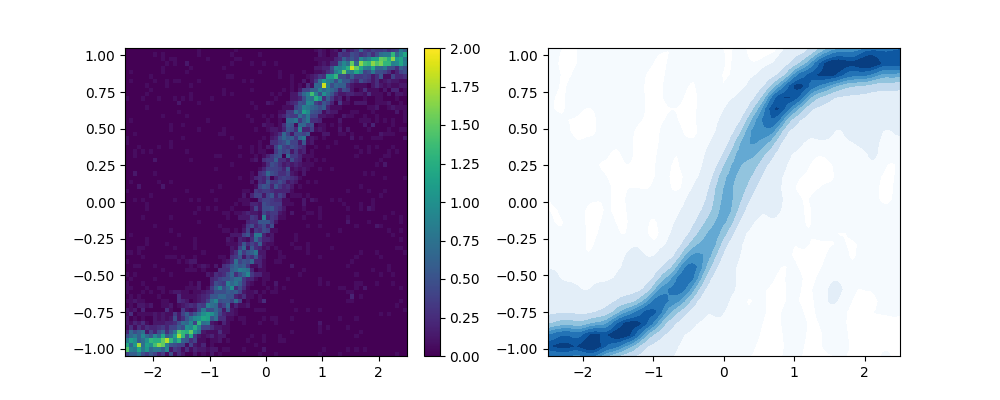
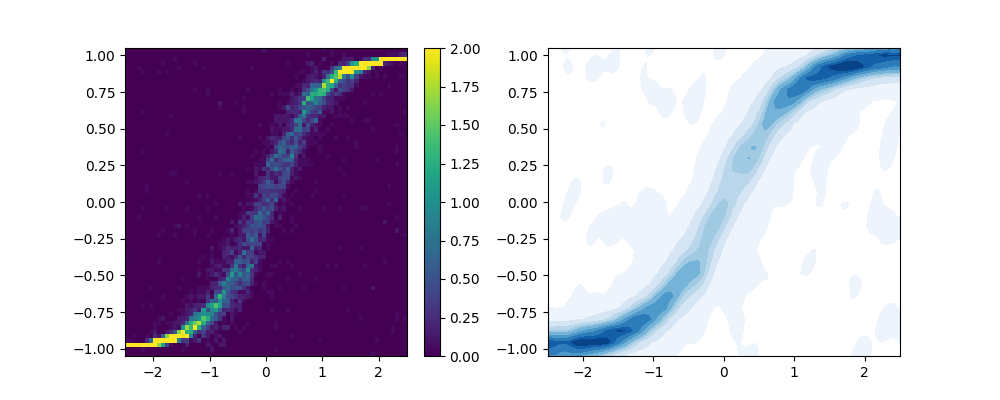
generic commit

Changed region(s): [[0.527, 0.12, 0.899, 0.9], [0.124, 0.12, 0.434, 0.9], [0.806, 0.69, 0.868, 0.75]]

diff --git a/scripts/transport/kvae_flow3.py b/scripts/transport/kvae_flow3.py
@@ -92,6 +92,12 @@ class Comp_transport_model:
         return z_mean
 
 
+    def map_denoise(self, x_mu, y_mean, y_var, y_denoise, Lambda_denoise, X_denoise, fit_kernel):
+        x_denoise = torch.concat([x_mu, y_mean, y_var + y_denoise], dim=1)
+        z_denoise = fit_kernel(X_denoise, x_denoise).T @ Lambda_denoise
+        return z_denoise
+
+
     def map_var(self, x_mu, y_eta, y_mean, Lambda_var, X_var, y_var, fit_kernel):
         if not self.approx:
             y_eta = shuffle(y_eta)
@@ -107,28 +113,34 @@ class Comp_transport_model:
                                    device=self.device, dtype=self.dtype)
         Lambda_var = torch.tensor(self.submodel_params['Lambda_var'][step_idx],
                                   device=self.device, dtype=self.dtype)
+        Lambda_denoise = torch.tensor(self.submodel_params['Lambda_denoise'][step_idx],
+                                  device=self.device, dtype=self.dtype)
         fit_kernel = self.submodel_params['fit_kernel'][step_idx]
         X_mean = torch.tensor(self.submodel_params['X_mean'][step_idx],device=self.device, dtype=self.dtype)
         X_var = torch.tensor(self.submodel_params['X_var'][step_idx], device=self.device, dtype=self.dtype)
+        X_denoise = torch.tensor(self.submodel_params['X_denoise'][step_idx], device=self.device, dtype=self.dtype)
 
         y_eta = geq_1d(torch.tensor(param_dict['y_eta'], device=self.device, dtype=self.dtype))
         x_mu = geq_1d(torch.tensor(param_dict['x_mu'], device=self.device, dtype=self.dtype))
         y_mean = geq_1d(torch.tensor(param_dict['y_mean'], device=self.device, dtype=self.dtype))
         y_var = geq_1d(torch.tensor(param_dict['y_var'], device=self.device, dtype=self.dtype))
+        y_denoise = geq_1d(torch.tensor(param_dict['y_denoise'], device=self.device, dtype=self.dtype))
 
         if not self.approx:
             y_mean = deepcopy(y_eta)
             y_var = 0 * y_mean
+            y_denoise = 0 * y_mean
 
         z_mean = self.map_mean(x_mu, y_mean, Lambda_mean, X_mean, fit_kernel)
         z_var = self.map_var(x_mu, y_eta, y_mean, Lambda_var, X_var,  y_var, fit_kernel)
-        z = z_mean + z_var
+        z_denoise = self.map_denoise(x_mu, y_mean, y_var, y_denoise, Lambda_denoise, X_denoise, fit_kernel)
+        z = z_mean + z_var + z_denoise
 
-        y_approx = y_mean + y_var
+        y_approx = y_mean + y_var + y_denoise
         y_eta = self.noise_shrink_c * shuffle(y_eta)
 
-        param_dict = {'y_eta': y_eta, 'y_mean': y_mean + z_mean, 'y_var': y_var + z_var, 'x_mu': x_mu,
-                       'y_approx': y_approx + z, 'y': torch.concat([x_mu, y_approx + z], dim=1)}
+        param_dict = {'y_eta': y_eta, 'y_mean': y_mean + z_mean, 'y_var': y_var + z_var, 'y_approx': y_approx + z,
+                      'y_denoise': y_denoise + z_denoise, 'x_mu': x_mu, 'y': torch.concat([x_mu, y_approx + z], dim=1)}
 
 
         if self.plot_steps:
@@ -141,7 +153,7 @@ class Comp_transport_model:
 
     def c_map(self, x, y, no_x = False):
         param_dict = {'y_eta': y, 'y_mean': 0 , 'y_var': 0,
-                       'x_mu': x, 'y_approx': 0, 'y': 0}
+                       'y_denoise': 0, 'x_mu': x, 'y_approx': 0, 'y': 0}
         self.approx = False
         for step_idx in range(len(self.submodel_params['Lambda_mean'])):
             param_dict = self.param_map(step_idx, param_dict)
@@ -176,15 +188,19 @@ class CondTransportKernel(nn.Module):
 
         self.Y_mean = deepcopy(self.Y_eta)
         self.Y_var =  0 * self.Y_mean
+        self.Y_denoise = 0 * self.Y_mean
         self.X_var = torch.concat([self.X_mu, shuffle(self.Y_eta), self.Y_mean], dim=1)
         self.approx = self.params['approx']
         if self.approx:
             self.Y_mean = geq_1d(torch.tensor(base_params['Y_mean'], device=self.device, dtype=self.dtype))
             self.Y_var = geq_1d(torch.tensor(base_params['Y_var'], device=self.device, dtype=self.dtype))
-            self.X_var = torch.concat([self.X_mu, self.Y_eta, self.Y_mean + self.Y_var], dim=1)
+            self.Y_denoise = geq_1d(torch.tensor(base_params['Y_denoise'], device=self.device, dtype=self.dtype))
+            self.X_var = torch.concat([self.X_mu, self.Y_eta, self.Y_mean], dim=1)
 
         self.X_mean = torch.concat([self.X_mu, self.Y_mean], dim=1)
-        self.Y_approx = self.Y_mean + self.Y_var
+        self.X_denoise = torch.concat([self.X_mu, self.Y_mean, self.Y_var + self.Y_denoise], dim=1)
+
+        self.Y_approx = self.Y_mean + self.Y_var + self.Y_denoise
 
         self.Y_mu = geq_1d(torch.tensor(base_params['Y_mu'], device=self.device, dtype=self.dtype))
         self.Y = torch.concat([self.X_mu, self.Y_mu], dim=1)
@@ -198,21 +214,25 @@ class CondTransportKernel(nn.Module):
         self.nugget_matrix = self.params['nugget'] * torch.eye(self.Nx, device=self.device, dtype=self.dtype)
         self.fit_kXXmean_inv = torch.linalg.inv(self.fit_kernel(self.X_mean, self.X_mean) + self.nugget_matrix)
         self.fit_kXXvar_inv = torch.linalg.inv(self.fit_kernel(self.X_var, self.X_var) + self.nugget_matrix)
+        self.fit_kXXdenoise_inv = torch.linalg.inv(self.fit_kernel(self.X_denoise, self.X_denoise) + self.nugget_matrix)
 
         self.params['mmd_kernel_params']['l'] *= l_scale(self.Y_mu).cpu()
         self.mmd_kernel = get_kernel(self.params['mmd_kernel_params'], self.device)
 
         self.Z_mean = nn.Parameter(self.init_Z(), requires_grad=True)
         self.Z_var = nn.Parameter(self.init_Z(), requires_grad=True)
+        self.Z_denoise = nn.Parameter(self.init_Z(), requires_grad=True)
         self.mmd_YY = self.mmd_kernel(self.Y, self.Y)
 
         self.Y_eta_test = geq_1d(torch.tensor(base_params['Y_eta_test'], device=self.device, dtype=self.dtype))
         self.Y_mean_test = deepcopy(self.Y_eta_test)
-        self.Y_var_test = 0 * self.Y_eta_test
+        self.Y_var_test = 0 * self.Y_mean_test
+        self.Y_denoise_test = 0 * self.Y_mean_test
 
         if self.approx:
             self.Y_mean_test = geq_1d(torch.tensor(base_params['Y_mean_test'], device=self.device, dtype=self.dtype))
             self.Y_var_test = geq_1d(torch.tensor(base_params['Y_var_test'], device=self.device, dtype=self.dtype))
+            self.Y_denoise_test = geq_1d(torch.tensor(base_params['Y_denoise_test'], device=self.device, dtype=self.dtype))
 
         self.X_mu_test = geq_1d(torch.tensor(base_params['X_mu_test'], device=self.device, dtype=self.dtype))
         self.Y_mu_test = geq_1d(torch.tensor(base_params['Y_mu_test'], device=self.device, dtype=self.dtype))
@@ -248,52 +268,64 @@ class CondTransportKernel(nn.Module):
         return self.fit_kXXmean_inv @ self.Z_mean
 
 
+
     def get_Lambda_var(self):
         return self.fit_kXXvar_inv @ self.Z_var
 
 
+
+    def get_Lambda_denoise(self):
+        return self.fit_kXXdenoise_inv @ self.Z_denoise
+
+
     def map_mean(self, x_mu, y_eta, y_mean):
-        if self.approx:
-            y_mean = geq_1d(torch.tensor(y_mean, device=self.device, dtype=self.dtype))
-        else:
-            y_mean = deepcopy(y_eta)
         x_mean = torch.concat([x_mu, y_mean], dim=1)
         Lambda_mean = self.get_Lambda_mean()
         z_mean = self.fit_kernel(self.X_mean, x_mean).T @ Lambda_mean
         return z_mean
 
 
-    def map_var(self, x_mu, y_eta, y_mean, y_var):
+    def map_var(self, x_mu, y_eta, y_mean):
         if not self.approx:
             y_eta = shuffle(y_eta)
 
         y_mean = geq_1d(torch.tensor(y_mean, device=self.device, dtype=self.dtype))
-
-        x_var = torch.concat([x_mu, y_eta, y_mean + y_var], dim=1)
+        x_var = torch.concat([x_mu, y_eta, y_mean], dim=1)
         Lambda_var = self.get_Lambda_var()
 
         z_var = self.fit_kernel(self.X_var, x_var).T @ Lambda_var
         return z_var
 
 
-    def map(self, x_mu, y_eta, y_mean = 0, y_var = 0):
+    def map_denoise(self, x_mu, y_mean, y_var, y_denoise):
+        x_denoise = torch.concat([x_mu, y_mean, y_var + y_denoise], dim=1)
+        Lambda_denoise = self.get_Lambda_denoise()
+        z_denoise = self.fit_kernel(self.X_denoise, x_denoise).T @ Lambda_denoise
+        return z_denoise
+
+
+    def map(self, x_mu, y_eta, y_mean = 0, y_var = 0, y_denoise = 0):
         y_eta = geq_1d(torch.tensor(y_eta, device=self.device, dtype=self.dtype))
         x_mu = geq_1d(torch.tensor(x_mu, device=self.device, dtype=self.dtype))
         y_mean = geq_1d(torch.tensor(y_mean, device=self.device, dtype=self.dtype))
         y_var = geq_1d(torch.tensor(y_var, device=self.device, dtype=self.dtype))
+        y_denoise = geq_1d(torch.tensor(y_denoise, device=self.device, dtype=self.dtype))
 
         if not self.approx:
             y_mean = deepcopy(y_eta)
             y_var = 0 * y_mean
+            y_denoise = 0 * y_mean
 
         z_mean = self.map_mean(x_mu, y_eta, y_mean)
-        z_var = self.map_var(x_mu, y_eta, y_mean, y_var)
-        z = z_mean + z_var
+        z_var = self.map_var(x_mu, y_eta, y_mean)
+        z_denoise = self.map_denoise(x_mu, y_mean, y_var, y_denoise)
+        z = z_mean + z_var + z_denoise
 
-        y_approx = y_mean + y_var
+        y_approx = y_mean + y_var + y_denoise
         y_eta = shuffle(y_eta)
         return_dict = {'y_eta': y_eta, 'y_mean': y_mean + z_mean, 'y_var': y_var + z_var,
-                       'y_approx': y_approx + z, 'y': torch.concat([x_mu, z + y_approx], dim = 1)}
+                       'y_denoise': y_denoise + z_denoise, 'y_approx': y_approx + z,
+                       'y': torch.concat([x_mu, z + y_approx], dim = 1)}
 
         return return_dict
 
@@ -314,7 +346,7 @@ class CondTransportKernel(nn.Module):
 
 
     def loss_mmd(self):
-        map_vec = torch.concat([self.X_mu, self.Y_approx  + self.Z_mean + self.Z_var], dim=1)
+        map_vec = torch.concat([self.X_mu, self.Y_approx  + self.Z_mean + self.Z_var + self.Z_denoise], dim=1)
         target = self.Y
 
         mmd_ZZ = self.mmd_kernel(map_vec, map_vec)
@@ -332,11 +364,13 @@ class CondTransportKernel(nn.Module):
 
     def loss_reg(self):
         Z_mean = self.Z_mean
-        Z_var = self.Z_var * float(self.approx)
+        Z_var = self.Z_var
+        Z_denoise = self.Z_denoise
 
         reg_1 = self.params['reg_lambda'] * torch.trace(Z_mean.T @ self.fit_kXXmean_inv @ Z_mean)
         reg_2 = self.params['reg_lambda'] * torch.trace(Z_var.T @ self.fit_kXXvar_inv @ Z_var)
-        return reg_1 + reg_2
+        reg_3 = self.params['reg_lambda'] * torch.trace(Z_denoise.T @ self.fit_kXXdenoise_inv @ Z_denoise)
+        return reg_1 + reg_2 + reg_3
 
 
     def loss_test(self):
@@ -344,8 +378,9 @@ class CondTransportKernel(nn.Module):
         y_eta = self.Y_eta_test
         y_mean = self.Y_mean_test
         y_var = self.Y_var_test
+        y_denoise = self.Y_denoise_test
         target = self.Y_test
-        map_vec = self.map(x_mu, y_eta, y_mean, y_var)['y']
+        map_vec = self.map(x_mu, y_eta, y_mean, y_var, y_denoise)['y']
         return self.mmd(map_vec, target)
 
 
@@ -360,12 +395,14 @@ class CondTransportKernel(nn.Module):
 
 
 def cond_kernel_transport(X_mu, Y_mu, Y_eta, params, n_iter = 101,  iters = -1,  approx = False, X_mu_test = [],
-                          Y_mean = [],Y_var = [], Y_eta_test = [],Y_mu_test = [], Y_mean_test = [], Y_var_test =[]):
-    transport_params = {'X_mu': X_mu, 'Y_mu': Y_mu, 'Y_eta': Y_eta, 'reg_lambda': 1e-5, 'Y_mean': Y_mean, 'Y_var': Y_var,
-                        'fit_kernel_params': deepcopy(params['mmd']), 'mmd_kernel_params': deepcopy(params['fit']),
-                        'print_freq': 100, 'learning_rate': .001, 'nugget': 1e-4, 'Y_eta_test': Y_eta_test,
-                        'X_mu_test': X_mu_test, 'Y_mu_test': Y_mu_test, 'Y_mean_test': Y_mean_test,
-                        'Y_var_test': Y_var_test, 'iters': iters, 'approx': approx}
+                          Y_mean = [],Y_var = [], Y_eta_test = [],Y_mu_test = [], Y_mean_test = [], Y_var_test =[],
+                          Y_denoise = [], Y_denoise_test = []):
+    transport_params = {'X_mu': X_mu, 'Y_mu': Y_mu, 'Y_eta': Y_eta, 'reg_lambda': 1e-5, 'Y_mean': Y_mean,
+                        'Y_var': Y_var, 'Y_denoise': Y_denoise, 'fit_kernel_params': deepcopy(params['mmd']),
+                        'mmd_kernel_params': deepcopy(params['fit']), 'print_freq': 100, 'learning_rate': .001,
+                        'nugget': 1e-4, 'Y_eta_test': Y_eta_test, 'X_mu_test': X_mu_test, 'Y_mu_test': Y_mu_test,
+                        'Y_mean_test': Y_mean_test,  'Y_var_test': Y_var_test, 'Y_denoise_test': Y_denoise_test,
+                        'iters': iters, 'approx': approx}
     ctransport_kernel = CondTransportKernel(transport_params)
     train_kernel(ctransport_kernel, n_iter)
     return ctransport_kernel
@@ -373,7 +410,8 @@ def cond_kernel_transport(X_mu, Y_mu, Y_eta, params, n_iter = 101,  iters = -1, 
 
 def comp_cond_kernel_transport(X_mu, Y_mu, Y_eta, params, n_iter = 101, n = 50,
                                Y_eta_test = [], X_mu_test = [],Y_mu_test = [], f = 1):
-    model_params = {'fit_kernel': [], 'Lambda_mean': [], 'X_mean': [], 'Lambda_var': [], 'X_var': []}
+    model_params = {'fit_kernel': [], 'Lambda_mean': [], 'X_mean': [],
+                    'Lambda_var': [], 'X_var': [],'Lambda_denoise': [], 'X_denoise': []}
     iters = -1
     eps = 1
     noise_shrink_c = np.exp(np.log(eps)/(n))
@@ -382,17 +420,22 @@ def comp_cond_kernel_transport(X_mu, Y_mu, Y_eta, params, n_iter = 101, n = 50,
     Y_mean_test = 0
     Y_var = 0
     Y_var_test = 0
+    Y_denoise = 0
+    Y_denoise_test = 0
     approx = False
     for i in range(n):
         model = cond_kernel_transport(X_mu, Y_mu, Y_eta, params, n_iter, Y_eta_test = Y_eta_test, approx =approx,
-                                      Y_mean = Y_mean , Y_var = Y_var, X_mu_test = X_mu_test,Y_mu_test = Y_mu_test,
-                                      Y_mean_test =  Y_mean_test, Y_var_test = Y_var_test, iters = iters)
+                                      Y_mean = Y_mean , Y_var = Y_var, Y_denoise = Y_denoise, X_mu_test = X_mu_test,
+                                      Y_mu_test = Y_mu_test, Y_mean_test =  Y_mean_test, Y_var_test = Y_var_test,
+                                      Y_denoise_test = Y_denoise_test, iters = iters)
 
         model_params['Lambda_mean'].append(model.get_Lambda_mean().detach().cpu().numpy())
         model_params['Lambda_var'].append(model.get_Lambda_var().detach().cpu().numpy())
+        model_params['Lambda_denoise'].append(model.get_Lambda_denoise().detach().cpu().numpy())
         model_params['fit_kernel'].append(model.fit_kernel)
         model_params['X_mean'].append(model.X_mean.detach().cpu().numpy())
         model_params['X_var'].append(model.X_var.detach().cpu().numpy())
+        model_params['X_denoise'].append(model.X_denoise.detach().cpu().numpy())
 
         if i==0:
             model_params['mmd_func'] = model.mmd
@@ -400,10 +443,11 @@ def comp_cond_kernel_transport(X_mu, Y_mu, Y_eta, params, n_iter = 101, n = 50,
         n_iter = max(int(n_iter * f), 101)
 
         map_dict = model.map(model.X_mu, model.Y_eta, model.Y_mean, model.Y_var)
-        Y_eta, Y_mean, Y_var = map_dict['y_eta'], map_dict['y_mean'], map_dict['y_var']
+        Y_eta, Y_mean, Y_var, Y_denoise = map_dict['y_eta'], map_dict['y_mean'], map_dict['y_var'], map_dict['y_denoise']
 
-        test_map_dict = model.map(model.X_mu_test, model.Y_eta_test, model.Y_mean_test, model.Y_var_test)
-        Y_eta_test, Y_mean_test, Y_var_test = test_map_dict['y_eta'], test_map_dict['y_mean'], test_map_dict['y_var']
+        t_map_dict = model.map(model.X_mu_test, model.Y_eta_test, model.Y_mean_test, model.Y_var_test)
+        Y_eta_test, Y_mean_test, Y_var_test, Y_denoise_test = t_map_dict['y_eta'], t_map_dict['y_mean'],\
+                                                              t_map_dict['y_var'], t_map_dict['y_denoise']
 
         Y_eta *= noise_shrink_c
         Y_eta_test *= noise_shrink_c
@@ -700,10 +744,10 @@ def vl_exp(N=10000, n_iter=101, Yd=18, normal=True, exp_name='vl_exp'):
 
 def run():
     ref_gen = sample_normal
-    target_gen = sample_spirals
+    target_gen = mgan2
     N = 3000
-    two_d_exp(ref_gen, target_gen, N, n_iter=101, plt_range=[[-3, 3], [-3, 3]], process_funcs=[], skip_idx=1,
-              slice_vals=[0], slice_range=[-3, 3], exp_name='spiral_kflow', n_transports=100, vmax=.15)
+    two_d_exp(ref_gen, target_gen, N, n_iter=101, plt_range=[[-2.5, 2.5], [-1.05, 1.05]], process_funcs=[], skip_idx=1,
+              slice_vals=[-1,0,1], slice_range=[-1.5, 1.5], exp_name='exp', n_transports=100, vmax=2)
 
 
 if __name__=='__main__':
